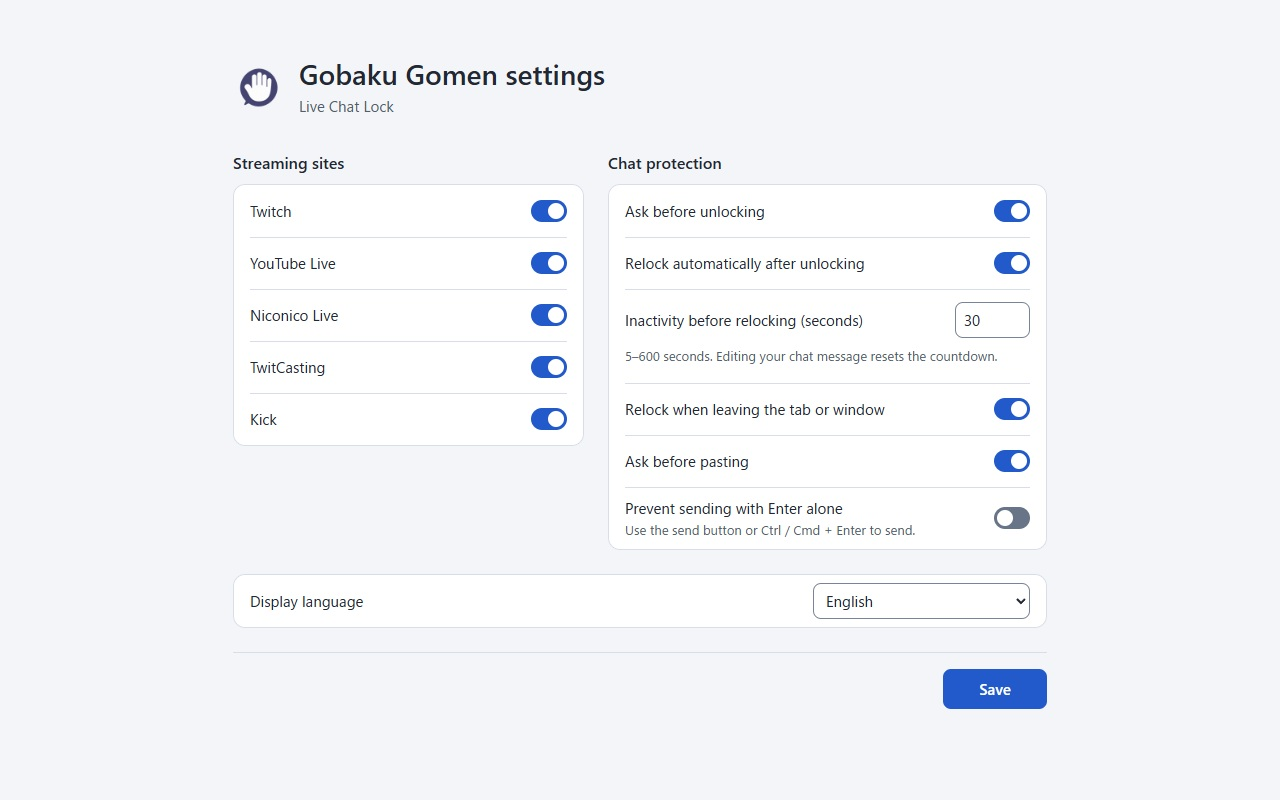
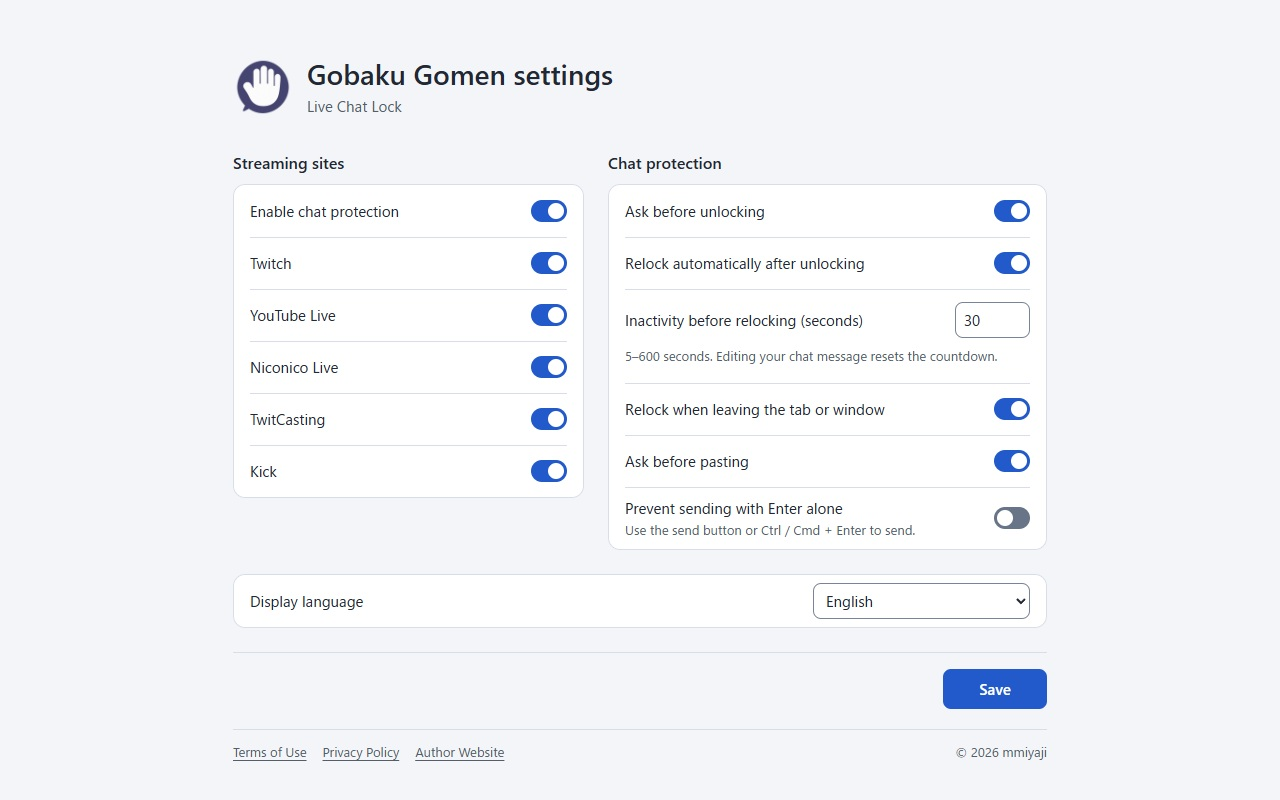
Release Gobaku Gomen 1.0.0

diff --git a/chat-lock.js b/chat-lock.js
@@ -47,6 +47,7 @@
   let enabled;
   let settingsRequest = 0;
   let pendingDialog;
+  let pasteAllowedUntil = 0;
   let unlockSession;
   let eventRoot;
   let unlockDeadline = Infinity;
@@ -69,6 +70,7 @@
     if (!unlockedEditor) return;
 
     unlockSession.abort();
+    clearPastePermission();
     unlockSession = undefined;
     if (pendingDialog?.dataset.gobakuConfirm === 'paste') pendingDialog.close();
     unlockedEditor.removeAttribute('data-gobaku-unlocked');
@@ -129,6 +131,7 @@
   }
 
   function trackChatInput(event) {
+    if (event.type === 'focusout' && unlockedEditor?.contains(event.target)) clearPastePermission();
     if (!event.isTrusted || !countdownText || !unlockedEditor.contains(event.target)) return;
 
     checkLockState();
@@ -299,13 +302,19 @@
     }
   }
 
+  function clearPastePermission() {
+    pasteAllowedUntil = 0;
+  }
+
   async function confirmChatPaste(event, editor) {
+    if (event.isTrusted && !pendingDialog && performance.now() < pasteAllowedUntil) {
+      clearPastePermission();
+      return;
+    }
+
     event.preventDefault();
     event.stopImmediatePropagation();
     if (!event.isTrusted || pendingDialog) return;
-
-    const text = event.clipboardData?.getData('text/plain');
-    if (!text) return;
 
     const signal = unlockSession.signal;
     const textField = editor.matches('input, textarea');
@@ -314,10 +323,9 @@
     const start = textField ? editor.selectionStart : null;
     const end = textField ? editor.selectionEnd : null;
     const agreed = await requestConfirmation('paste');
+    checkLockState();
     if (signal.aborted || !editor.isConnected || !editor.matches(editorSelector)) return;
 
-    checkLockState();
-    if (signal.aborted) return;
     editor.focus();
     if (document.activeElement !== editor) return;
     if (start !== null && end !== null) {
@@ -326,7 +334,7 @@
       selection.removeAllRanges();
       selection.addRange(range);
     }
-    if (agreed && !signal.aborted) document.execCommand('insertText', false, text);
+    if (agreed) pasteAllowedUntil = performance.now() + 10000;
   }
 
   function guardChatEnter(event, editor) {
@@ -360,6 +368,10 @@
     if (!lockedEditor && !lockedSend && !lockedForm) {
       if (editor && editor === unlockedEditor) {
         if (event.type === 'paste' && settings.confirmPaste) confirmChatPaste(event, editor);
+        if (settings.confirmPaste && (event.type === 'drop' || event.inputType === 'insertFromDrop')) {
+          event.preventDefault();
+          event.stopImmediatePropagation();
+        }
         if (event instanceof KeyboardEvent && settings.guardEnter) guardChatEnter(event, editor);
       }
       return;
@@ -380,6 +392,7 @@
     if (eventRoot === document.documentElement) return;
     eventRoot = document.documentElement;
     window.addEventListener('focus', checkLockState);
+    window.addEventListener('blur', clearPastePermission);
     window.addEventListener('pagehide', onPageHide);
     window.addEventListener('popstate', checkLockState);
     for (const type of ['input', 'compositionstart', 'compositionend', 'focusout']) {
@@ -401,7 +414,7 @@
 
   function applySettings(next) {
     if (!isValidUnlockTime(next.unlockSeconds)) next.unlockSeconds = defaultSettings.unlockSeconds;
-    const nextEnabled = next[siteKey];
+    const nextEnabled = next.enabled !== false && next[siteKey];
     if (enabled === nextEnabled && ['confirmUnlock', 'autoRelock', 'unlockSeconds', 'confirmPaste', 'relockOnLeave', 'guardEnter']
       .every((key) => settings[key] === next[key])) return;
 

diff --git a/options.html b/options.html
@@ -12,7 +12,7 @@
 <body>
   <main>
     <header class="page-heading">
-      <img class="extension-icon" src="assets/icons/icon-128.png" width="52" height="52" alt="">
+      <img class="extension-icon" src="assets/icons/icon-128.png" width="60" height="60" alt="">
       <div>
         <h1 data-message="settings_title"></h1>
         <p class="page-subtitle" data-message="settings_subtitle"></p>
@@ -23,6 +23,7 @@
         <section aria-labelledby="sites-title">
           <h2 id="sites-title" data-message="sites"></h2>
           <fieldset aria-labelledby="sites-title" disabled>
+            <label class="setting-row"><span data-message="popup_enabled"></span><input type="checkbox" role="switch" name="enabled"></label>
             <label class="setting-row"><span>Twitch</span><input type="checkbox" role="switch" name="twitchEnabled"></label>
             <label class="setting-row"><span>YouTube Live</span><input type="checkbox" role="switch" name="youtubeEnabled"></label>
             <label class="setting-row"><span data-message="niconico_live"></span><input type="checkbox" role="switch" name="niconicoEnabled"></label>
@@ -69,6 +70,14 @@
         <button type="submit" data-message="save" disabled></button>
       </div>
     </form>
+    <footer class="page-footer">
+      <div class="footer-links">
+        <a href="https://mmiyaji.github.io/gobaku-gomen/terms.html" target="_blank" rel="noopener noreferrer" data-message="footer_terms"></a>
+        <a href="https://mmiyaji.github.io/gobaku-gomen/privacy.html" target="_blank" rel="noopener noreferrer" data-message="footer_privacy"></a>
+        <a href="https://ruhenheim.org/" target="_blank" rel="noopener noreferrer" data-message="footer_author_site"></a>
+      </div>
+      <small>© 2026 mmiyaji</small>
+    </footer>
   </main>
 </body>
 </html>

diff --git a/options.js b/options.js
@@ -18,7 +18,9 @@
   const fieldsets = form.querySelectorAll('fieldset');
   fields.unlockSeconds.min = minUnlockSeconds;
   fields.unlockSeconds.max = maxUnlockSeconds;
-  const toggles = Object.keys(defaultSettings).filter((key) => typeof defaultSettings[key] === 'boolean');
+  const toggles = Object.keys(defaultSettings).filter(
+    (key) => typeof defaultSettings[key] === 'boolean' && fields.namedItem(key)
+  );
   let savedSettings;
 
   function setBusy(busy) {
@@ -32,6 +34,13 @@
 
   fields.autoRelock.addEventListener('change', updateTimerField);
   form.addEventListener('input', () => { status.textContent = ''; });
+
+  chrome.storage.local.onChanged.addListener(({ enabled }) => {
+    if (!enabled || !savedSettings) return;
+    const locallyEdited = fields.enabled.checked !== savedSettings.enabled;
+    savedSettings.enabled = enabled.newValue !== false;
+    if (!locallyEdited) fields.enabled.checked = savedSettings.enabled;
+  });
 
   form.addEventListener('submit', async (event) => {
     event.preventDefault();
@@ -59,12 +68,13 @@
 
   chrome.storage.local.get(defaultSettings).then(async (settings) => {
     savedSettings = settings;
+    settings.enabled = settings.enabled !== false;
     fields.language.value = ['en', 'ja'].includes(settings.language) ? settings.language : 'system';
-    copy = await loadCopy(fields.language.value);
-    renderCopy();
     for (const key of toggles) {
       fields[key].checked = settings[key];
     }
+    copy = await loadCopy(fields.language.value);
+    renderCopy();
     if (!isValidUnlockTime(settings.unlockSeconds)) settings.unlockSeconds = defaultSettings.unlockSeconds;
     fields.unlockSeconds.value = settings.unlockSeconds;
     updateTimerField();

diff --git a/popup.js b/popup.js
@@ -1,0 +1,50 @@
+const enabledControl = document.querySelector('#enabled');
+const statusMessage = document.querySelector('#status');
+let copy = systemCopy;
+
+function renderCopy() {
+  document.documentElement.lang = copy.language;
+  document.title = copy.t('extension_short_name');
+  for (const element of document.querySelectorAll('[data-message]')) {
+    element.textContent = copy.t(element.dataset.message);
+  }
+}
+
+renderCopy();
+
+async function initialize() {
+  try {
+    const { enabled, language } = await chrome.storage.local.get(defaultSettings);
+    copy = await loadCopy(language);
+    renderCopy();
+    enabledControl.checked = enabled !== false;
+    enabledControl.disabled = false;
+  } catch {
+    statusMessage.textContent = copy.t('load_failed');
+  }
+}
+
+enabledControl.addEventListener('change', async () => {
+  const enabled = enabledControl.checked;
+  enabledControl.disabled = true;
+  statusMessage.textContent = '';
+  try {
+    await chrome.storage.local.set({ enabled });
+  } catch {
+    enabledControl.checked = !enabled;
+    statusMessage.textContent = copy.t('save_failed');
+  } finally {
+    enabledControl.disabled = false;
+  }
+});
+
+document.querySelector('#details').addEventListener('click', async () => {
+  try {
+    await chrome.runtime.openOptionsPage();
+    window.close();
+  } catch {
+    statusMessage.textContent = copy.t('load_failed');
+  }
+});
+
+initialize();

diff --git a/popup.html b/popup.html
@@ -1,0 +1,29 @@
+<!doctype html>
+<html lang="en">
+<head>
+  <meta charset="utf-8">
+  <meta name="viewport" content="width=device-width, initial-scale=1">
+  <title></title>
+  <link rel="stylesheet" href="options.css">
+  <link rel="stylesheet" href="popup.css">
+  <script defer src="settings.js"></script>
+  <script defer src="popup.js"></script>
+</head>
+<body>
+  <main>
+    <header class="popup-heading">
+      <img src="assets/icons/icon-48.png" width="40" height="40" alt="">
+      <div>
+        <h1 data-message="extension_short_name"></h1>
+        <p data-message="settings_subtitle"></p>
+      </div>
+    </header>
+    <label class="setting-row">
+      <span data-message="popup_enabled"></span>
+      <input id="enabled" type="checkbox" role="switch" disabled>
+    </label>
+    <button id="details" type="button" data-message="popup_options"></button>
+    <p id="status" role="status"></p>
+  </main>
+</body>
+</html>

diff --git a/options.css b/options.css
@@ -209,9 +209,41 @@ button:enabled:hover {
   background: var(--accent-hover);
 }
 
-:where(input, select, button):focus-visible {
+:where(input, select, button, a):focus-visible {
   outline: 2px solid var(--focus);
   outline-offset: 3px;
+}
+
+.page-footer {
+  display: flex;
+  flex-wrap: wrap;
+  align-items: baseline;
+  justify-content: space-between;
+  gap: 8px 24px;
+  margin-block-start: 20px;
+  padding-block-start: 12px;
+  border-block-start: 1px solid var(--line);
+  color: var(--muted);
+  font-size: 13px;
+}
+
+.page-footer small {
+  font-size: inherit;
+}
+
+.footer-links {
+  display: flex;
+  flex-wrap: wrap;
+  gap: 6px 16px;
+}
+
+.footer-links a {
+  color: inherit;
+  text-underline-offset: 3px;
+}
+
+.footer-links a:hover {
+  color: var(--focus);
 }
 
 @media (max-width: 670px) {

diff --git a/popup.css b/popup.css
@@ -1,0 +1,41 @@
+body {
+  width: 300px;
+}
+
+main {
+  padding: 16px;
+}
+
+.popup-heading {
+  display: flex;
+  align-items: center;
+  gap: 8px;
+  margin-block-end: 14px;
+}
+
+.popup-heading h1 {
+  font-size: 18px;
+}
+
+.popup-heading p {
+  color: var(--muted);
+  font-size: 12px;
+}
+
+.setting-row {
+  min-height: 48px;
+  padding-inline: 12px;
+  border: 1px solid var(--line);
+  border-radius: 10px;
+  background: var(--panel);
+}
+
+#details {
+  width: 100%;
+  margin-block-start: 12px;
+}
+
+#status:not(:empty) {
+  margin-block-start: 8px;
+  color: var(--muted);
+}

diff --git a/settings.js b/settings.js
@@ -1,4 +1,5 @@
 const defaultSettings = Object.freeze({
+  enabled: true,
   twitchEnabled: true,
   youtubeEnabled: true,
   niconicoEnabled: true,

diff --git a/README.en.md b/README.en.md
@@ -1,0 +1,42 @@
+# Gobaku Gomen – Live Chat Lock
+
+[日本語](README.md)
+
+Gobaku Gomen is a Chrome extension that helps prevent accidental pastes and messages in livestream chat. It supports Twitch, YouTube Live, Niconico Live, TwitCasting, and Kick.
+
+## Screenshots
+
+The livestream video, chat messages, usernames, and service logos are masked. The Twitch screenshot shows the actual locked chat, with **Unlock chat input** visible.
+
+![Twitch chat with input locked](docs/screenshots/twitch-en-locked.jpg)
+
+| YouTube Live | Extension settings |
+| --- | --- |
+| ![YouTube Live chat with input locked](docs/screenshots/youtube-en-locked.jpg) | ![Gobaku Gomen extension settings](docs/screenshots/settings-en.jpg) |
+
+## Install from source
+
+1. Open `chrome://extensions/` in Chrome.
+2. Turn on **Developer mode**.
+3. Choose **Load unpacked** and select the folder containing `manifest.json`.
+4. Reload any open livestream tabs.
+
+## Use the chat lock
+
+1. Choose **Unlock chat input** in the chat panel. You can also focus the button with Tab and activate it with Enter or Space.
+2. By default, the extension asks for confirmation, then focuses the chat input.
+3. When the timer is enabled, the chat locks again after the configured period of inactivity. You can also relock it manually.
+
+The toolbar popup turns protection on or off across all sites. Open **Advanced settings** to choose which sites to protect, set the relock timer, require confirmation before pasting, or prevent Enter alone from sending a message. You can also choose English, Japanese, or the Chrome display language.
+
+With paste confirmation on, select **Allow next paste**, then paste again into the same field within 10 seconds. The extension does not read the clipboard. Dragging content into the chat field is blocked while paste confirmation is on.
+
+YouTube Live works with both the chat embedded in the watch page and pop-out live chat. Chat replay is outside the supported scope.
+
+## Terms and privacy
+
+- [Terms of Use](https://mmiyaji.github.io/gobaku-gomen/terms.html)
+- [Privacy Policy](https://mmiyaji.github.io/gobaku-gomen/privacy.html)
+- [Author Website](https://ruhenheim.org/)
+
+© 2026 mmiyaji
